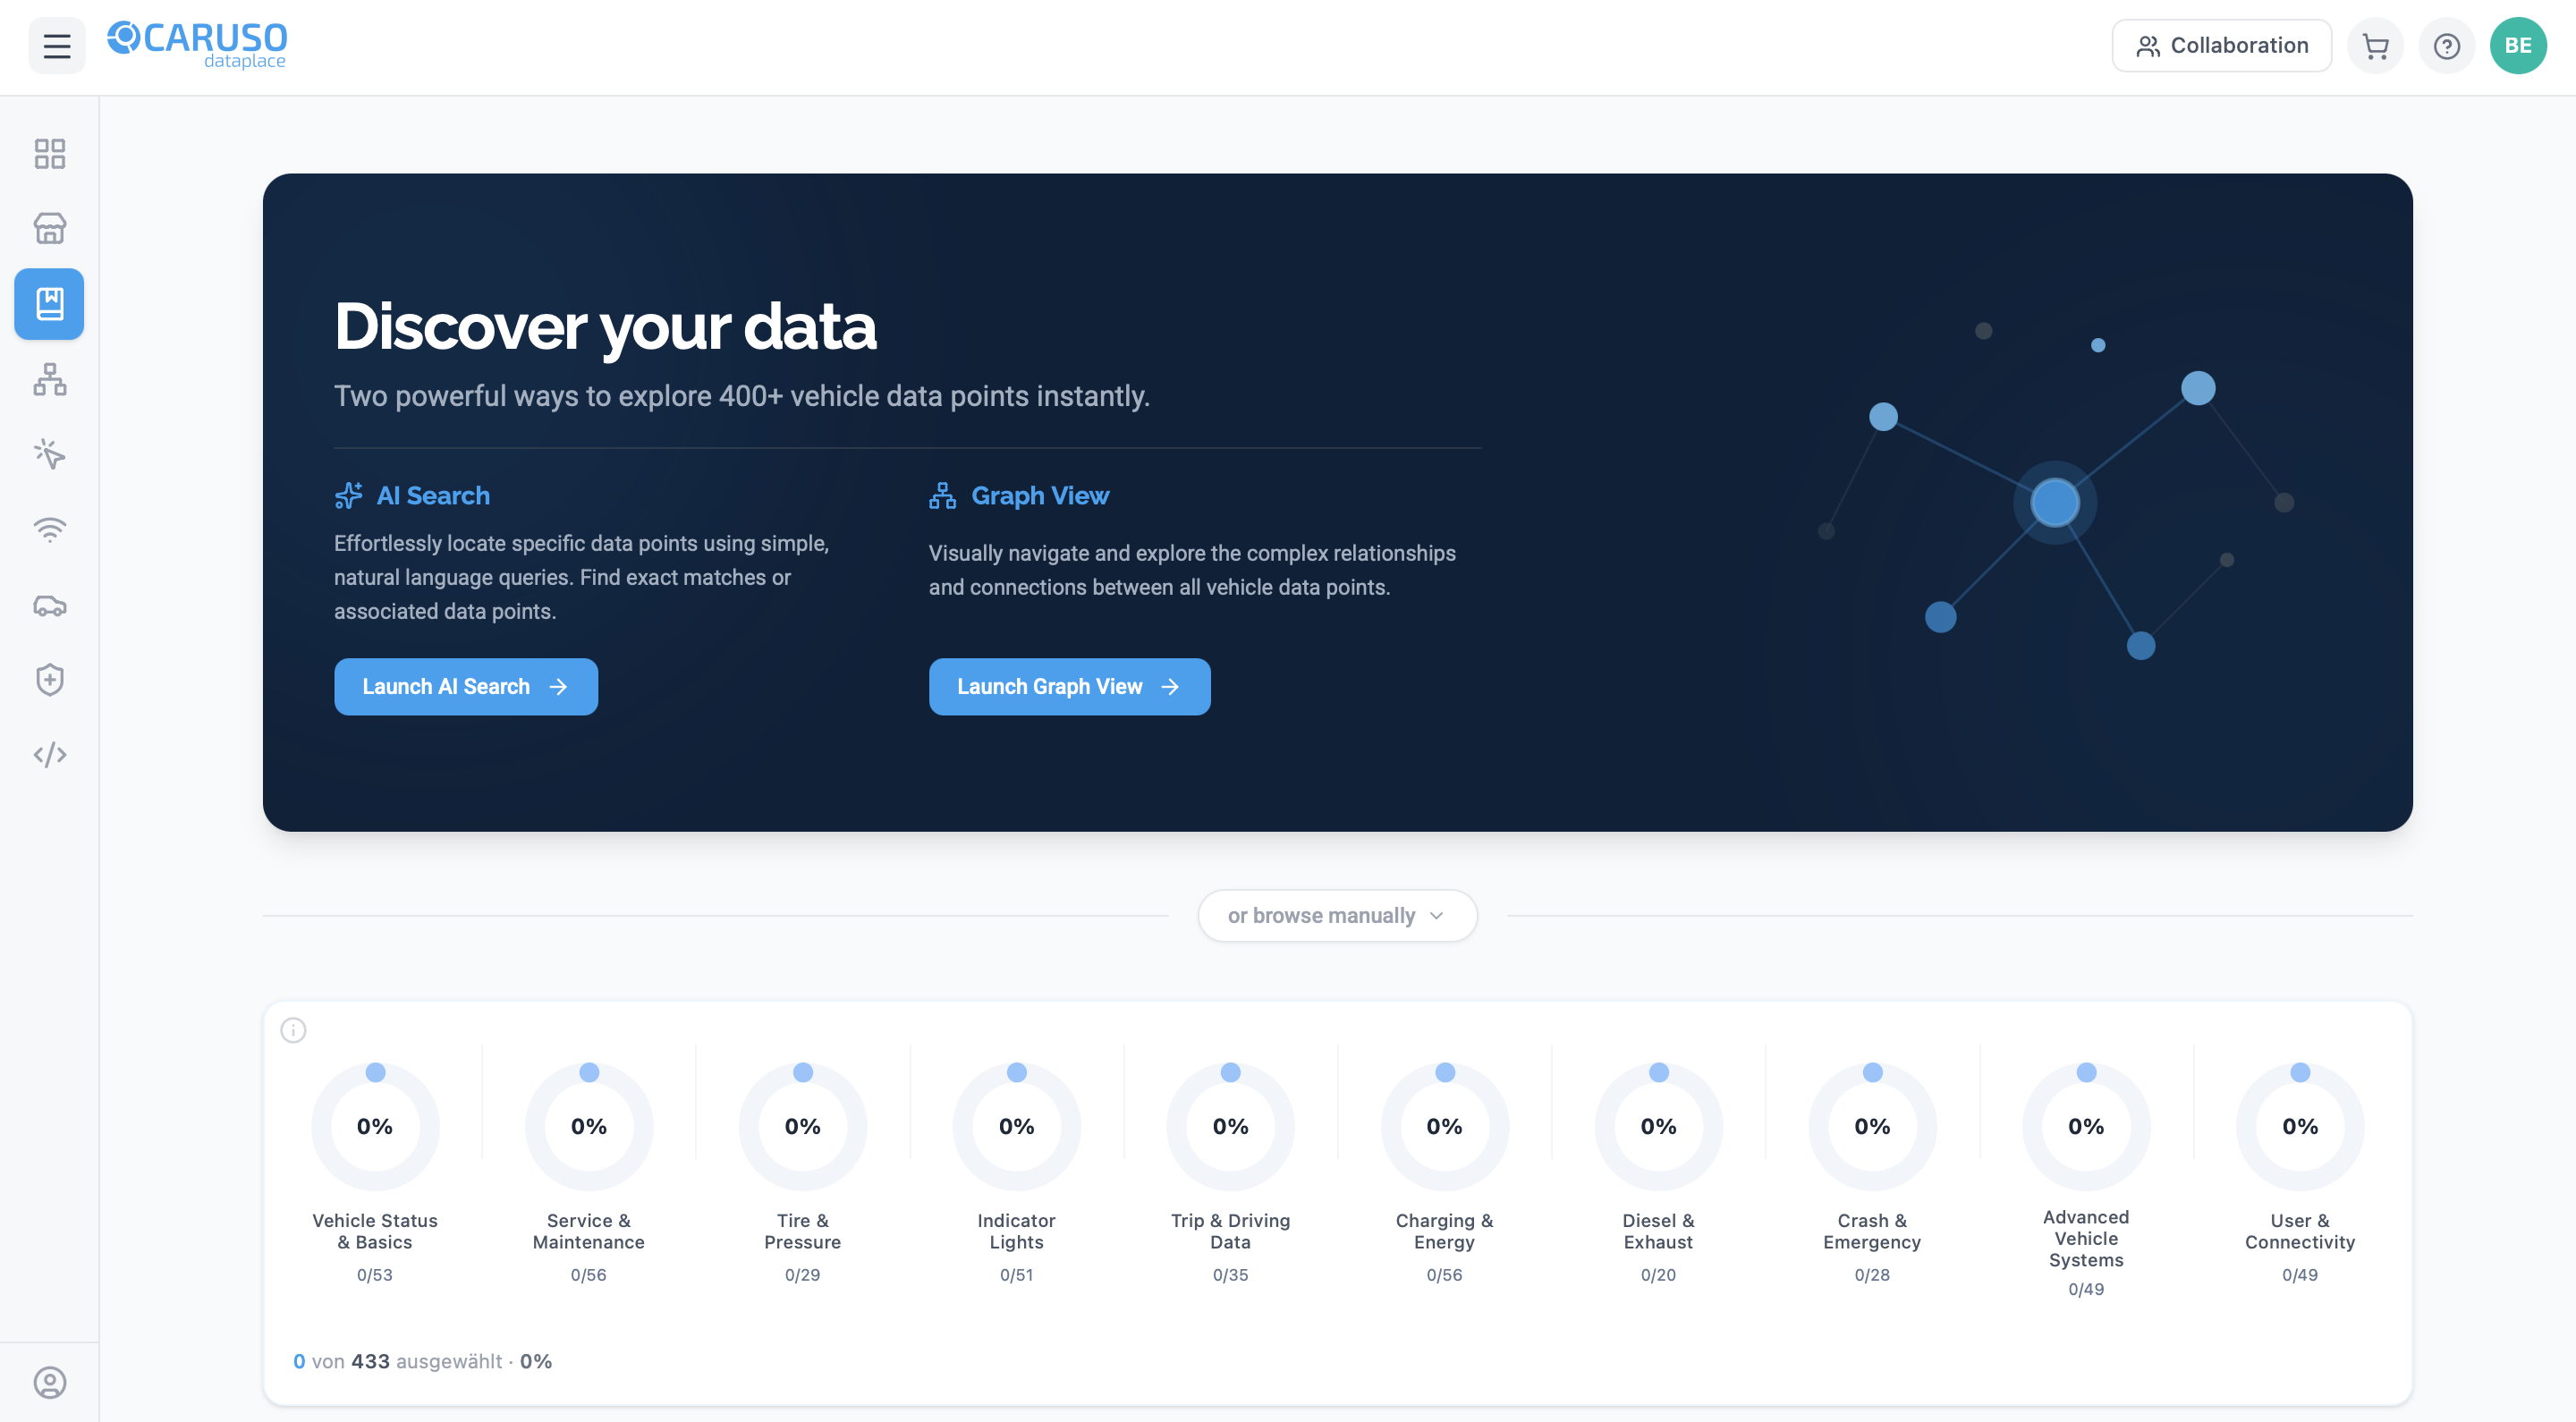
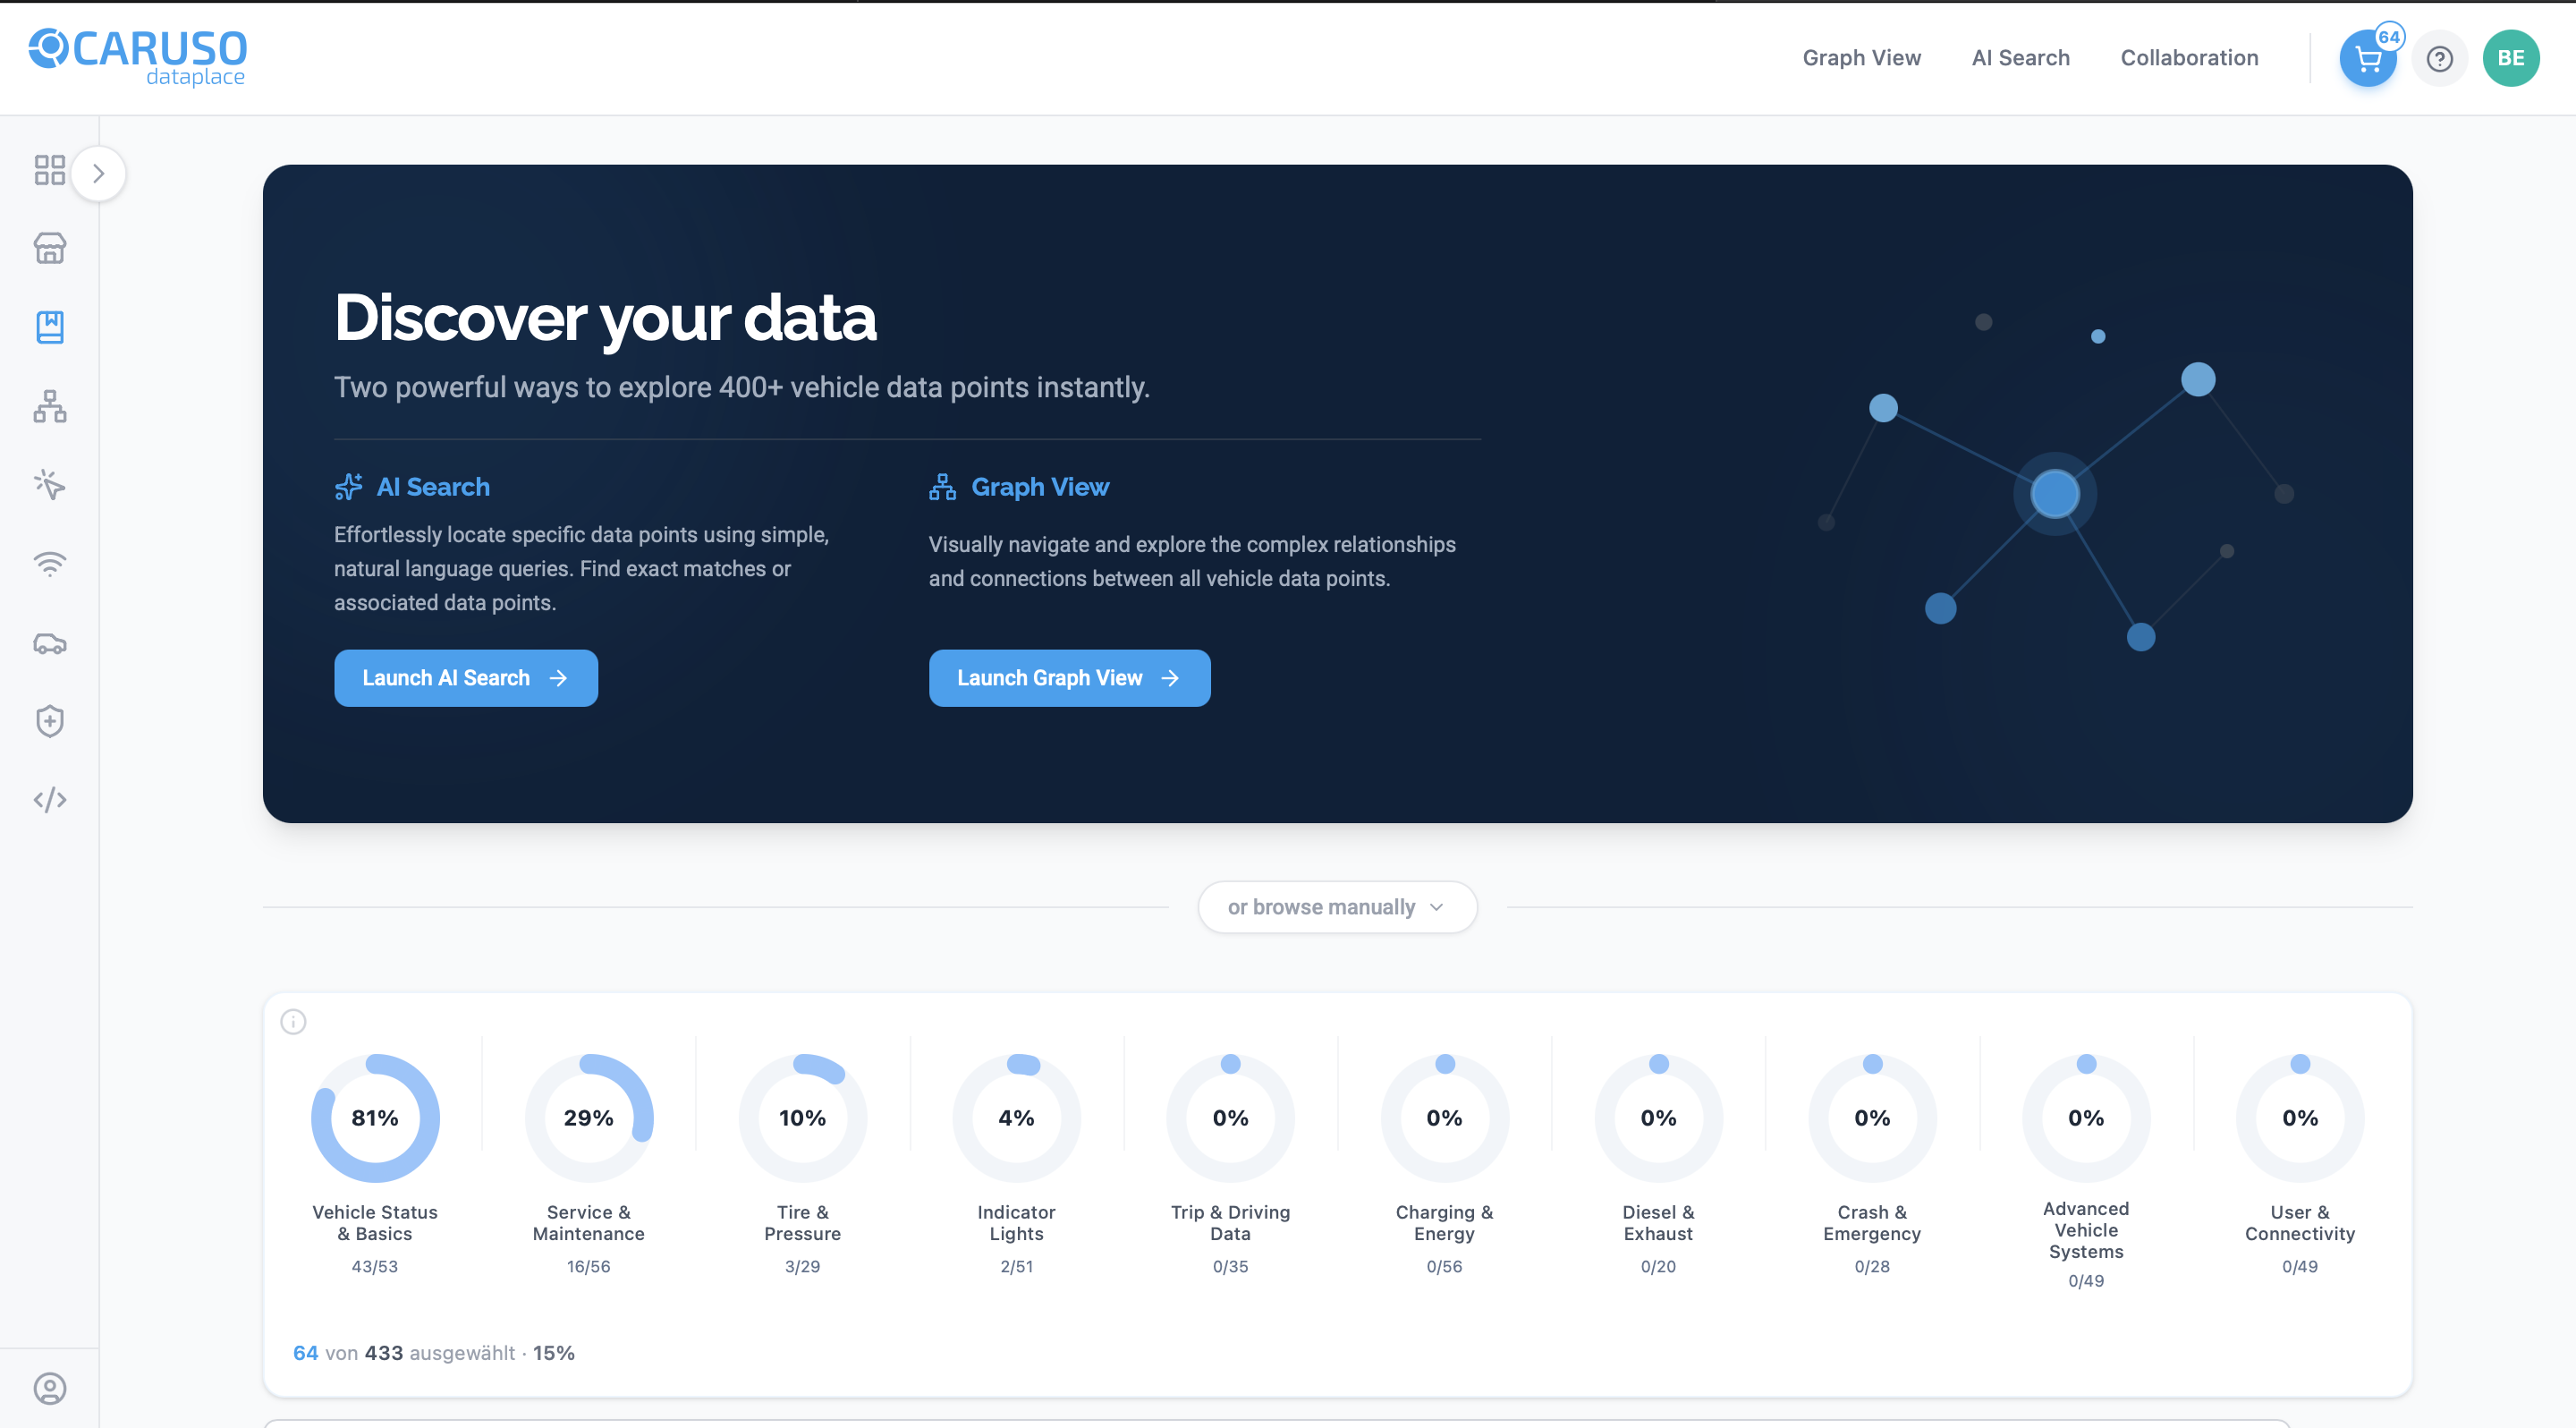
Website V2
- Béla Verbesserungen + Videos hinzugefügt

diff --git a/index.html b/index.html
@@ -27,13 +27,13 @@ body { font-family: 'Roboto', sans-serif; background: var(--white); color: var(-
 nav {
   position: sticky; top: 0; z-index: 100;
   background: rgba(255,255,255,0.96); backdrop-filter: blur(12px);
-  padding: 0 6%; height: 60px;
+  padding: 0 6%; height: 80px;
   display: flex; align-items: center; justify-content: space-between;
   border-bottom: 1px solid var(--border);
   box-shadow: 0 1px 16px rgba(10,33,57,0.06);
 }
 .nav-links { display: flex; gap: 28px; align-items: center; }
-.nav-links a { font-size: 13px; color: var(--blue); text-decoration: none; font-weight: 500; transition: opacity 0.2s; }
+.nav-links a { font-size: 16px; color: var(--blue); text-decoration: none; font-weight: 500; transition: opacity 0.2s; }
 .nav-links a:hover { opacity: 0.65; }
 
 /* HERO */
@@ -61,10 +61,10 @@ nav {
 .mock-frame img { width: 100%; height: auto; display: block; }
 
 /* STRIP */
-.strip { background: var(--navy2); border-top: 1px solid rgba(29,161,242,0.1); border-bottom: 1px solid rgba(29,161,242,0.1); padding: 26px 6%; min-height: 40vh; display: flex; align-items: flex-start; justify-content: center; gap: 52px; flex-wrap: wrap; }
+.strip { background: var(--navy2); border-top: 1px solid rgba(29,161,242,0.1); border-bottom: 1px solid rgba(29,161,242,0.1); padding: 26px 6%; min-height: 40vh; display: flex; align-items: center; justify-content: center; gap: 52px; flex-wrap: wrap; }
 .strip-item { text-align: center; }
-.strip-n { font-family: 'Raleway', sans-serif; font-size: 22px; font-weight: 900; color: var(--blue); display: block; }
-.strip-l { font-size: 11px; color: rgba(255,255,255,0.42); margin-top: 2px; display: block; letter-spacing: 0.5px; text-transform: uppercase; }
+.strip-n { font-family: 'Raleway', sans-serif; font-size: 48px; font-weight: 900; color: var(--blue); display: block; }
+.strip-l { font-size: 12px; color: rgba(255,255,255,0.42); margin-top: 2px; display: block; letter-spacing: 0.5px; text-transform: uppercase; }
 .strip-sep { color: rgba(29,161,242,0.2); font-size: 24px; }
 
 /* SECTIONS */
@@ -172,7 +172,7 @@ footer span { color: var(--blue); }
 <body>
 
 <nav>
-  <img src="assets/caruso_logo.png" style="height:30px;width:auto" alt="Caruso Dataplace">
+  <img src="assets/caruso_logo.png" style="height:40px;width:auto" alt="Caruso Dataplace">
   <div class="nav-links">
     <a href="#features">Features</a>
     <a href="#how">Warum unser Katalog?</a>
@@ -189,8 +189,9 @@ footer span { color: var(--blue); }
       <strong>Mit KI-Suche, interaktivem Graph View und Echtzeit-Kollaboration.</strong>
     </p>
   </div>
-  <div class="mock-frame" style="width: 100%; transform-origin: left top;">
-  <img src="assets/HeroBanner.png" alt="Caruso Dataplace">
+
+  <div style="position:relative; width:100%; align-self:stretch; min-height:400px;">
+  <canvas id="heroCanvas" style="position:absolute; top:0; left:0; width:100%; height:100%; opacity:0.7;"></canvas>
 </div>
 </section>
 
@@ -297,7 +298,7 @@ footer span { color: var(--blue); }
       </div>
     </div>
     <div class="mock-frame light">
-      <video src="assets/collab-demo.mp4" muted loop playsinline autoplay
+      <video src="assets/COLLAB.mp4" muted loop playsinline autoplay
         data-modal-video>
       </video>
     </div>
@@ -331,7 +332,7 @@ footer span { color: var(--blue); }
 
 <section class="team-sec" id="team">
   <span class="slabel" style="text-align:center;display:block;">Das Team</span>
-  <img src="assets/logo_ologn.svg" style="height:80px;width:auto;display:block;margin:32px auto 24px;" alt="Team O(log n)">
+  <img src="assets/logo_ologn.svg" style="height:140px;width:auto;display:block;margin:32px auto 24px;" alt="Team O(log n)">
   <p class="team-sub">Fünf Softwareentwickler und zwei Designer der TH Mannheim, als Semesterprojekt für Caruso GmbH.</p>
 
   <div style="max-width:900px;margin:0 auto 32px;">
@@ -400,6 +401,73 @@ wrap.addEventListener('touchstart', e => { dragging = true; setPos(e.touches[0].
 window.addEventListener('touchmove', e => { if (dragging) setPos(e.touches[0].clientX); });
 window.addEventListener('touchend', () => dragging = false);
 
+// HERO NETWORK ANIMATION
+const canvas = document.getElementById('heroCanvas');
+const ctx = canvas.getContext('2d');
+
+function resize() {
+  canvas.width = canvas.parentElement.offsetWidth * window.devicePixelRatio;
+  canvas.height = canvas.parentElement.offsetHeight * window.devicePixelRatio;
+  canvas.style.width = canvas.parentElement.offsetWidth + 'px';
+  canvas.style.height = canvas.parentElement.offsetHeight + 'px';
+  ctx.scale(window.devicePixelRatio, window.devicePixelRatio);
+  nodes.forEach(n => {
+    n.x = Math.random() * canvas.parentElement.offsetWidth;
+    n.y = Math.random() * canvas.parentElement.offsetHeight;
+  });
+}
+
+const nodes = Array.from({length: 40}, () => ({
+  x: 0, y: 0,
+  vx: (Math.random() - 0.5) * 0.4,
+  vy: (Math.random() - 0.5) * 0.4,
+  r: Math.random() * 6 + 5
+}));
+
+window.addEventListener('load', resize);
+window.addEventListener('resize', resize);
+
+function draw() {
+ const W = canvas.parentElement.offsetWidth;
+const H = canvas.parentElement.offsetHeight;
+ctx.clearRect(0, 0, W, H);
+  
+  // Kanten
+  for (let i = 0; i < nodes.length; i++) {
+    for (let j = i + 1; j < nodes.length; j++) {
+      const dx = nodes[i].x - nodes[j].x;
+      const dy = nodes[i].y - nodes[j].y;
+      const dist = Math.sqrt(dx*dx + dy*dy);
+      if (dist < 200) {
+        ctx.beginPath();
+        ctx.moveTo(nodes[i].x, nodes[i].y);
+        ctx.lineTo(nodes[j].x, nodes[j].y);
+       ctx.strokeStyle = `rgba(29,161,242,${0.4 * (1 - dist/160)})`;
+ctx.lineWidth = 1.5;
+        ctx.stroke();
+      }
+    }
+  }
+  
+  // Knoten
+  nodes.forEach(n => {
+    ctx.beginPath();
+    ctx.arc(n.x, n.y, n.r, 0, Math.PI * 2);
+ctx.fillStyle = 'rgba(29,161,242,1)';
+    ctx.fill();
+  });
+  
+  // Bewegung
+  nodes.forEach(n => {
+    n.x += n.vx;
+    n.y += n.vy;
+   if (n.x < n.r || n.x > W - n.r) n.vx *= -1;
+if (n.y < n.r || n.y > H - n.r) n.vy *= -1;
+  });
+  
+  requestAnimationFrame(draw);
+}
+draw();
 </script>
 </body>
 </html>